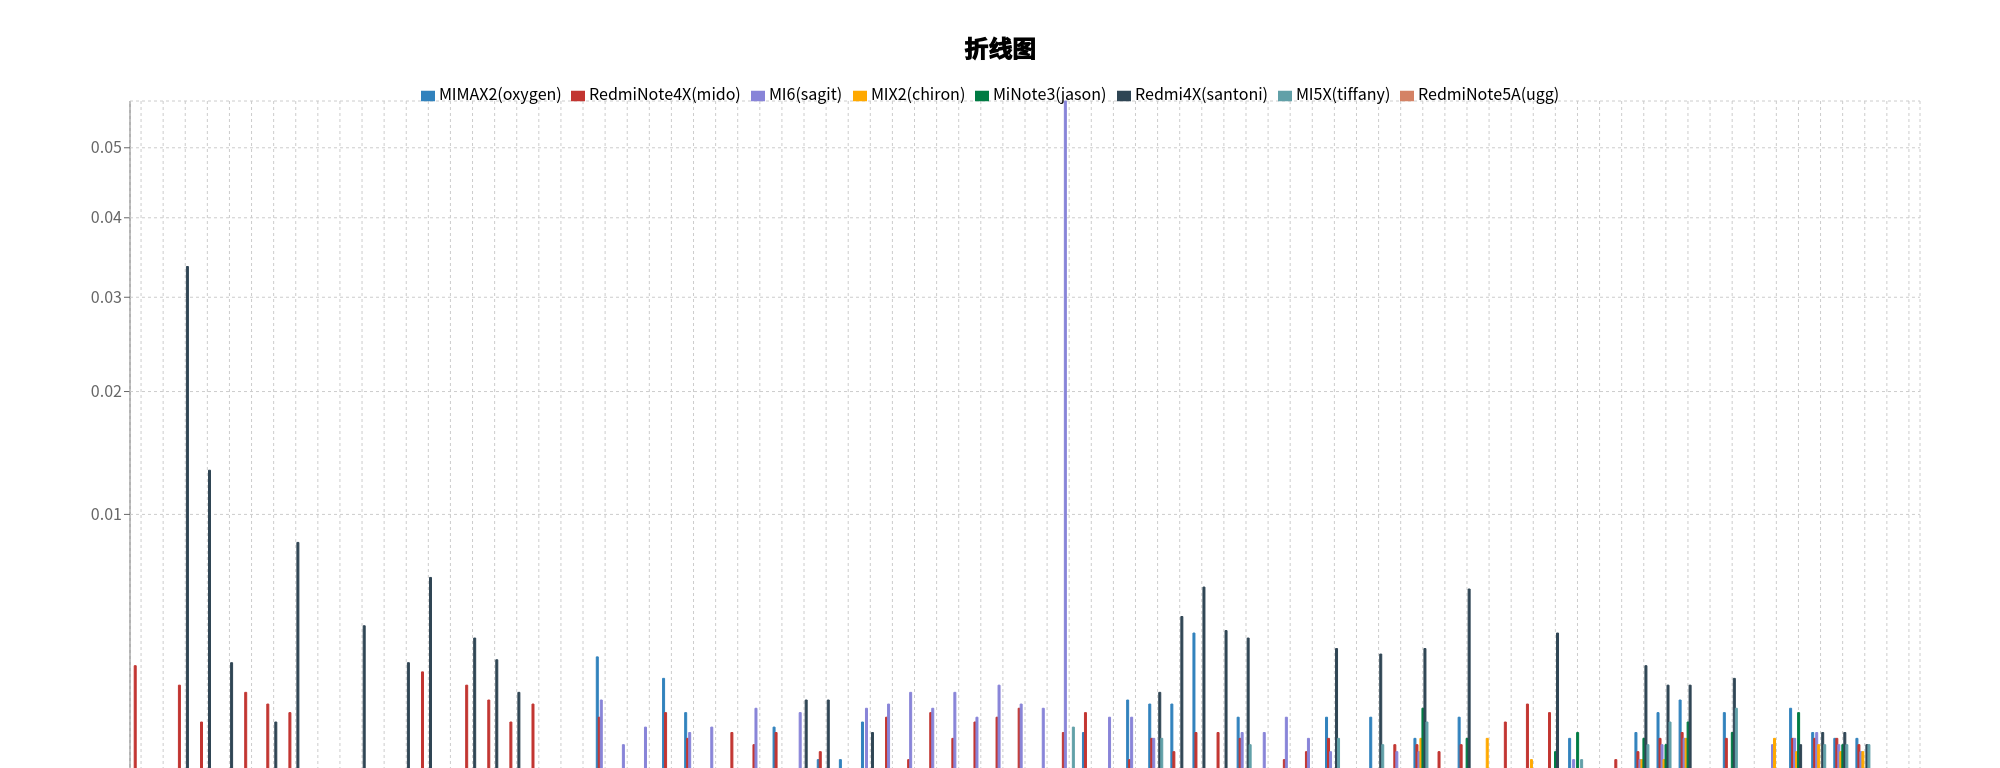
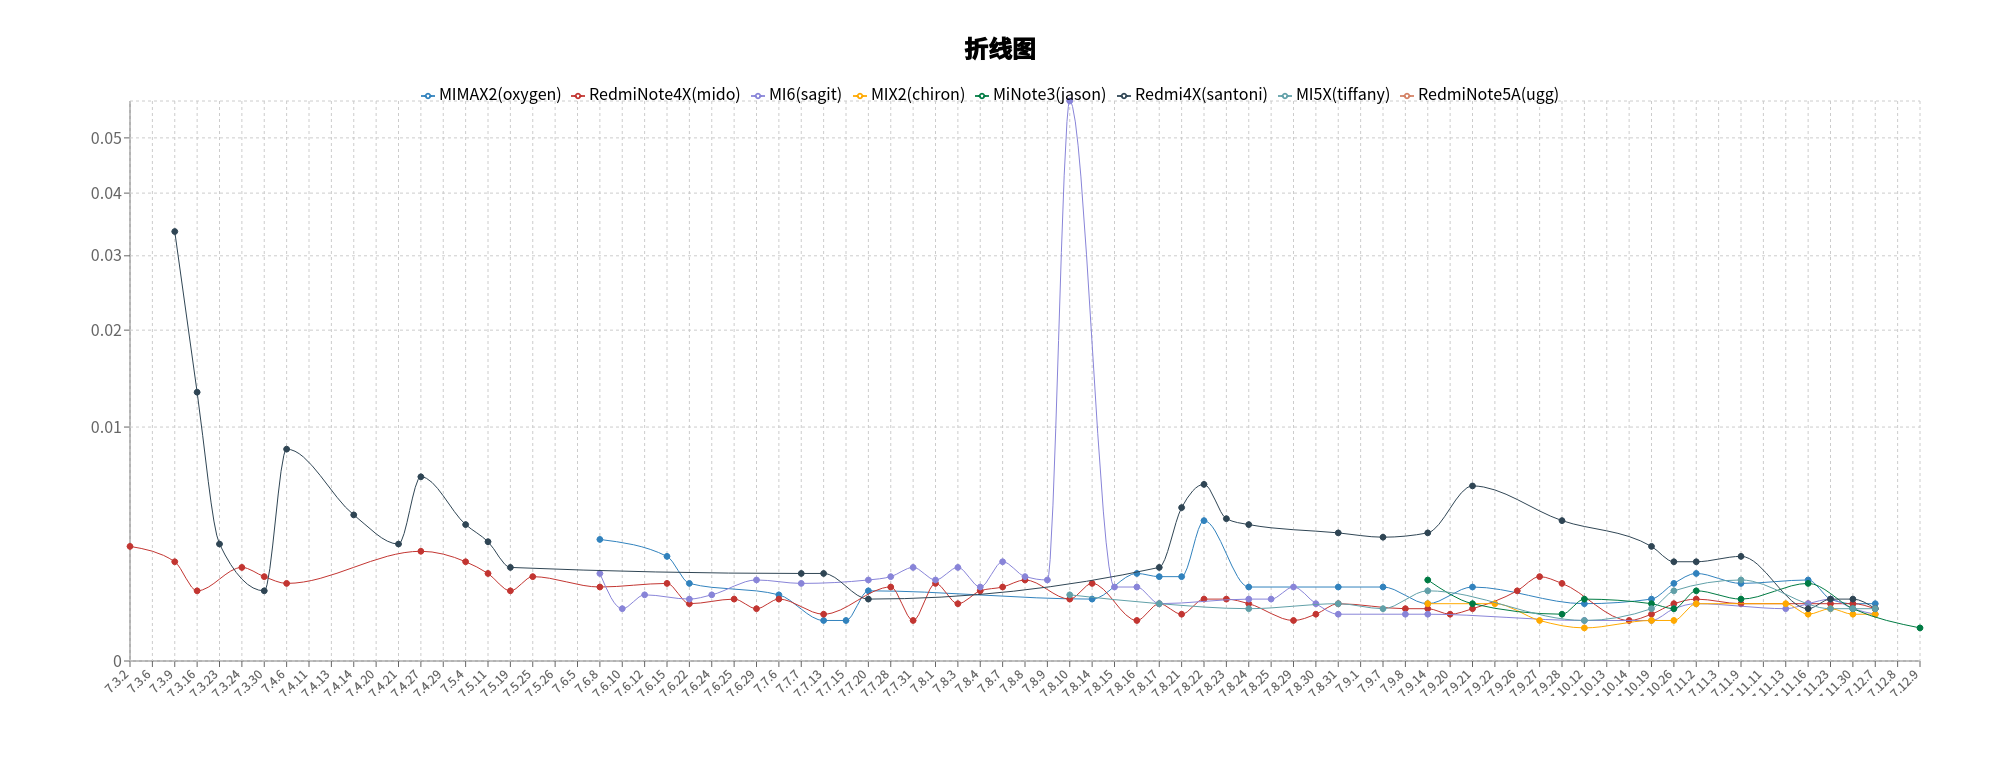
update

diff --git a/app/chart/lineChart.js b/app/chart/lineChart.js
@@ -55,8 +55,7 @@ class Chart extends React.Component {
                 </style>
                 <div style={{margin:'auto', textAlign: 'center'}}>
                     <h2 style={{padding: 10}}>{title}</h2>
-                    <ResponsiveContainer width='100%'>
-                        <LineChart  width={1900} height={750}  data={resultData}
+                        <LineChart  width={1900} height={600}  data={resultData}
                         style={{display: 'block', margin: 'auto'}}
         	            margin={{top: 5, right: 30, left: 20, bottom: 5}}>
 
@@ -70,7 +69,6 @@ class Chart extends React.Component {
                                 Lines
                             }
         				</LineChart>
-                    </ResponsiveContainer>
 
                 </div>
 			</div>

diff --git a/app/chart/barChart.js b/app/chart/barChart.js
@@ -55,7 +55,7 @@ class Chart extends React.Component {
                 </style>
                 <div style={{margin:'auto', textAlign: 'center'}}>
                     <h2 style={{padding: 10}}>{title}</h2>
-    				<BarChart width={1900} height={750} data={resultData}
+    				<BarChart width={1900} height={600} data={resultData}
                         style={{ margin: 'auto'}}
         	            margin={{top: 5, right: 30, left: 20, bottom: 5}}>
 
